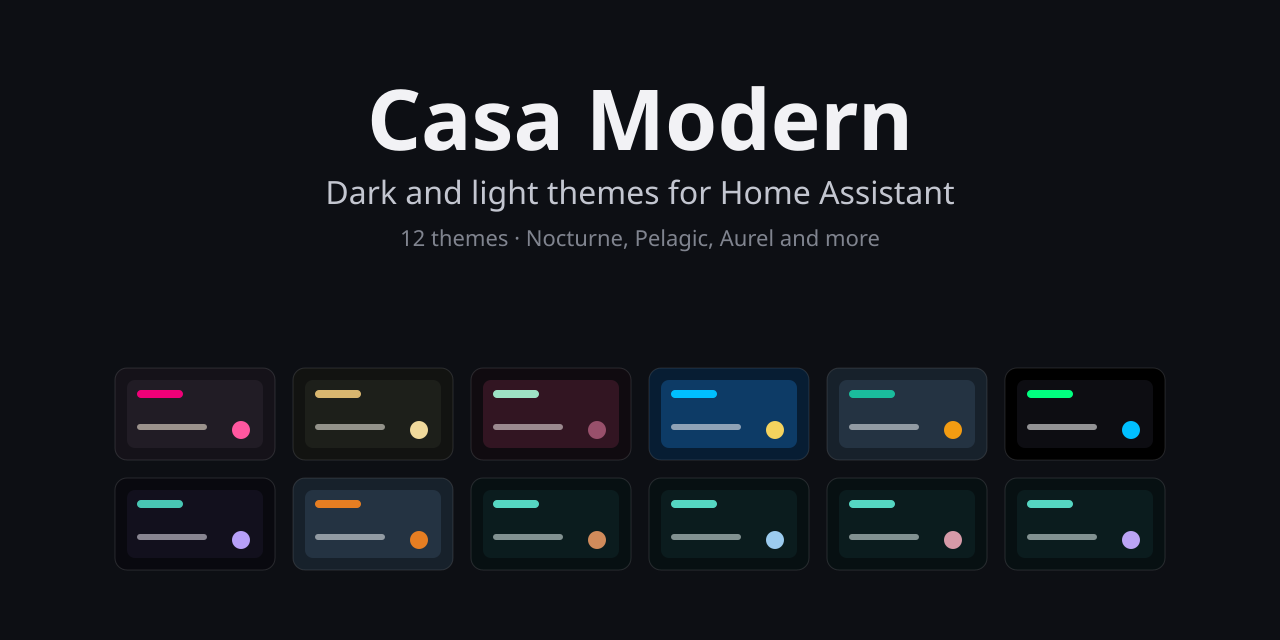
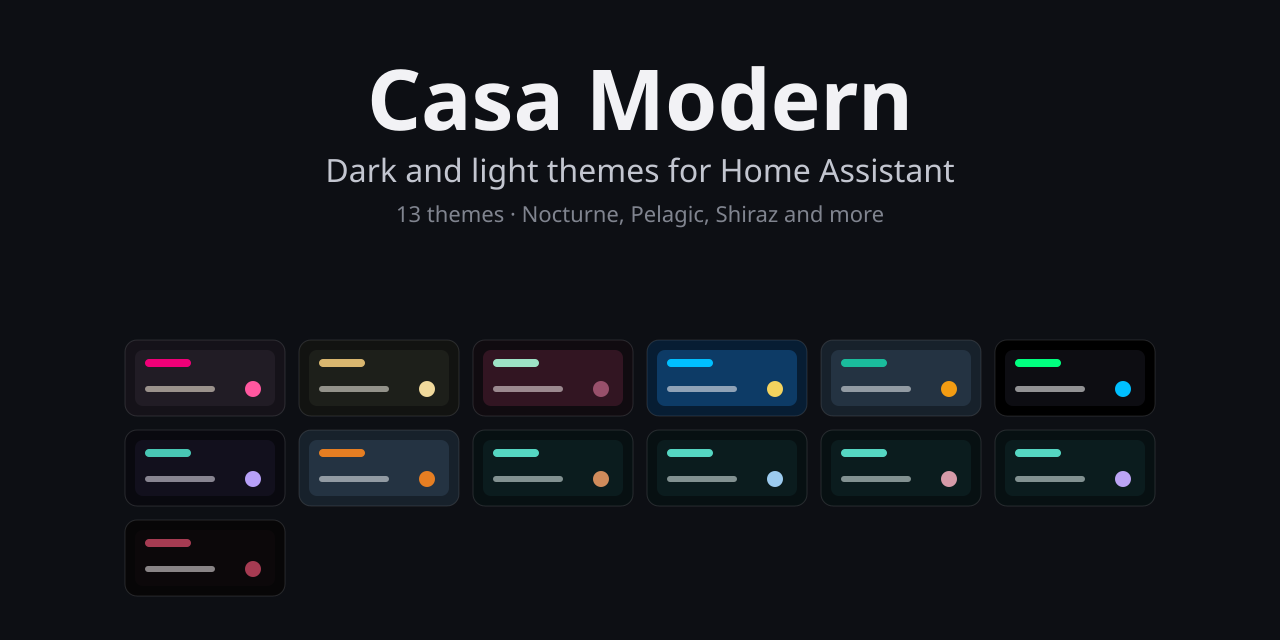
Add Casa Modern Shiraz (dark and light)
Claude-Session: https://claude.ai/code/session_013zneNLtM3TA1bMF3vAY2pn

diff --git a/README.md b/README.md
@@ -2,7 +2,7 @@
 
 ![](images/social.png)
 
-Dark (and, for six of them, light) Home Assistant themes: Nocturne, Pelagic (and its Rose, Copper and Ice variants), Aurel, Northstar, Neon Grid, Monolith, Fusion, Bordeaux and Afterglow.
+Dark (and, for seven of them, light) Home Assistant themes: Nocturne, Pelagic (and its Rose, Copper and Ice variants), Aurel, Northstar, Neon Grid, Monolith, Fusion, Bordeaux, Shiraz and Afterglow.
 
 ## Install
 
@@ -13,7 +13,7 @@ Dark (and, for six of them, light) Home Assistant themes: Nocturne, Pelagic (and
 
 ## Themes
 
-12 themes. The six with a second swatch row also have a light mode.
+13 themes. The seven with a second swatch row also have a light mode.
 
 ### Casa Modern Nocturne
 
@@ -62,6 +62,10 @@ Dark (and, for six of them, light) Home Assistant themes: Nocturne, Pelagic (and
 ### Casa Modern Afterglow
 
 ![Casa Modern Afterglow](images/casa-modern-afterglow.svg)
+
+### Casa Modern Shiraz
+
+![Casa Modern Shiraz](images/casa-modern-shiraz.svg)
 
 The swatches show page, card, dialog, accent, icon tint and text. Add real screenshots to `images/` for the HACS page.
 
